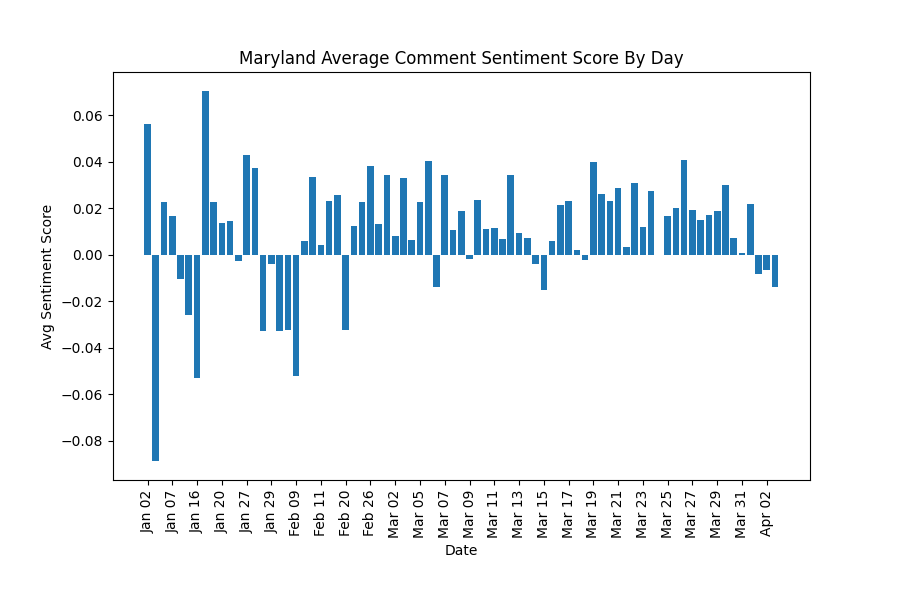
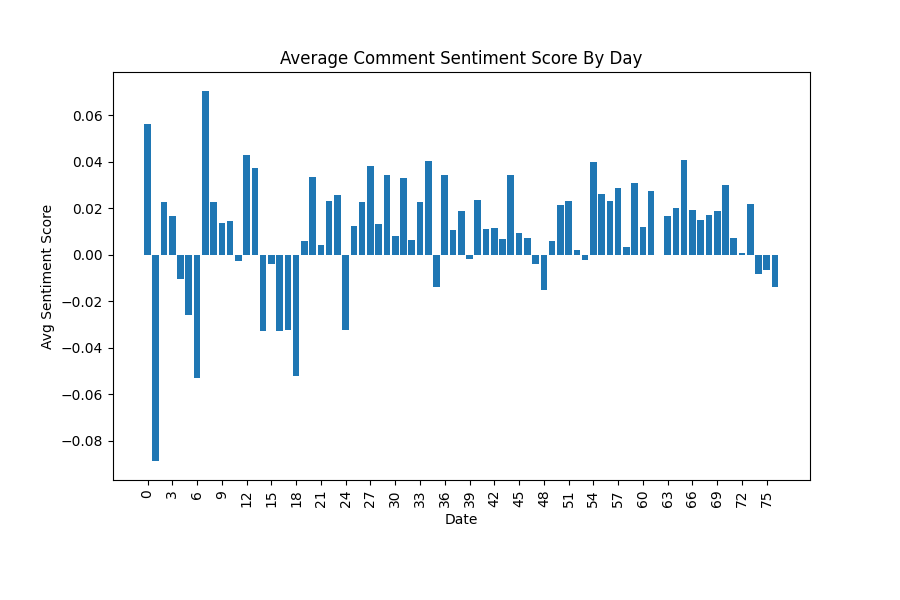
excpetion handling for W virginia not having enough comments

Changed region(s): [[0.1556, 0.81, 0.8711, 0.93], [0.2489, 0.09, 0.7778, 0.12]]

diff --git a/app/templates/search.html b/app/templates/search.html
@@ -189,7 +189,7 @@
   </table>
   {% else %} {% endif %}
 
-  <br> {% if timeline_data|length != 0 %}
+  <br>
   <hr>
   <!-- <h2 class="center" style="text-align:center">Twitter Statistics:</h2>
   <div>
@@ -214,10 +214,12 @@
     </div>
   </div> -->
 
-
   <h3 class="head center sentiment" style="text-align:center; font-style:italic;">The Average Sentiment in {{handle}} Twitter Comments</h3>
   <p class="head center sentiment1" style="text-align:center">This graph demonstrates how {{state}}'s constituents felt towards their governor during the 2020 COVID-19 Pandemic.</p>
-  <img id="sent-plot" class="center" src="../static/images/{{state}}_sent_plot1.png" alt="Comment Sentiment Plot" /> {% else %} {% endif %}
+
+  {% if exception==False %}
+  <img id="sent-plot" class="center" src="../static/images/{{state}}_sent_plot1.png" alt="Comment Sentiment Plot" /> {% else %}   <p class="head center sentiment1" style="text-align:center; margin-left:50px;margin-right:50px;background-color:#BDC9B8;padding:10px;font-style:italic;">{{handle}} does not have enough popular comments for a sentiment plot.</p>
+ {% endif %}
 
   <br> {% if religion_data|length != 0 %}
   <hr>

diff --git a/app/irsystem/controllers/make_sent_plots.py b/app/irsystem/controllers/make_sent_plots.py
@@ -5,37 +5,38 @@ import numpy as np
 def make_state_comment_plot(state, avg_by_day):
     lis = list(avg_by_day.items())
     lis.sort(key = lambda x: x[0])
+    print(len(lis))
 
-    new_lis = []
-    for tup in lis:
-        month = tup[0][1]
-        if month == "1":
-            new_lis.append(tuple(("Jan " + str(tup[0][2:]), tup[1])))
-        if month == "2":
-            new_lis.append(tuple(("Feb " + str(tup[0][2:]), tup[1])))
-        if month == "3":
-            new_lis.append(tuple(("Mar " + str(tup[0][2:]), tup[1])))
-        if month == "4":
-            new_lis.append(tuple(("Apr " + str(tup[0][2:]), tup[1])))
+    if len(lis) < 2:
+        return True
+    else:
+        new_lis = []
+        for tup in lis:
+            month = tup[0][1]
+            if month == "1":
+                new_lis.append(tuple(("Jan " + str(tup[0][2:]), tup[1])))
+            if month == "2":
+                new_lis.append(tuple(("Feb " + str(tup[0][2:]), tup[1])))
+            if month == "3":
+                new_lis.append(tuple(("Mar " + str(tup[0][2:]), tup[1])))
+            if month == "4":
+                new_lis.append(tuple(("Apr " + str(tup[0][2:]), tup[1])))
 
+        x_pos = np.arange(len(new_lis))
+        labels = [x[0] for x in new_lis]
 
+        fig = plt.figure(figsize=(9.0, 6.0))
+        plt.bar(x_pos, [y[1] for y in new_lis])
+        plt.xticks(x_pos, labels[::2], rotation='vertical') # set divisor
+        plt.locator_params(axis='x', nbins=len(x_pos)/3)
+        plt.gcf().subplots_adjust(bottom=0.20)
+        # plt.xticks(plt.xticks(np.arange(x_lis[0], x_lis[len(x_lis)-1], 1.0)))
+        # plt.xticks(rotation=70)
+        plt.xlabel("Date")
+        plt.ylabel("Avg Sentiment Score")
+        plt.title("Average Comment Sentiment Score By Day")
 
+        link = 'app/static/images/' + state + '_sent_plot1.png'
 
-    x_pos = np.arange(len(new_lis))
-    labels = [x[0] for x in new_lis]
-
-    fig = plt.figure(figsize=(9.0, 6.0))
-    plt.bar(x_pos, [y[1] for y in new_lis])
-    plt.xticks(x_pos, labels[::2], rotation='vertical') # set divisor
-    plt.locator_params(axis='x', nbins=len(x_pos)/3)
-    plt.gcf().subplots_adjust(bottom=0.20)
-    # plt.xticks(plt.xticks(np.arange(x_lis[0], x_lis[len(x_lis)-1], 1.0)))
-    # plt.xticks(rotation=70)
-    plt.xlabel("Date")
-    plt.ylabel("Avg Sentiment Score")
-    plt.title("Average Comment Sentiment Score By Day")
-
-
-    link = 'app/static/images/' + state + '_sent_plot1.png'
-
-    fig.savefig(link)
+        fig.savefig(link)
+        return False

diff --git a/app/irsystem/controllers/search_controller.py b/app/irsystem/controllers/search_controller.py
@@ -43,8 +43,8 @@ def search():
 		religion_data = timeline_data[3]
 		static_data = getstaticdata(state)
 
-		make_state_comment_plot(state, comment_sentiment[state])
+		exception = make_state_comment_plot(state, comment_sentiment[state])
 		make_religion_plot(state, religion_data)
 
 
-	return render_template('search.html', governor=governor, handle=handle, name=project_name, netid=net_id, state=state, output_message=output_message, data=output_data, timeline_data=timeline_data, religion_data=religion_data, static_data=static_data)
+	return render_template('search.html', exception=exception, governor=governor, handle=handle, name=project_name, netid=net_id, state=state, output_message=output_message, data=output_data, timeline_data=timeline_data, religion_data=religion_data, static_data=static_data)
